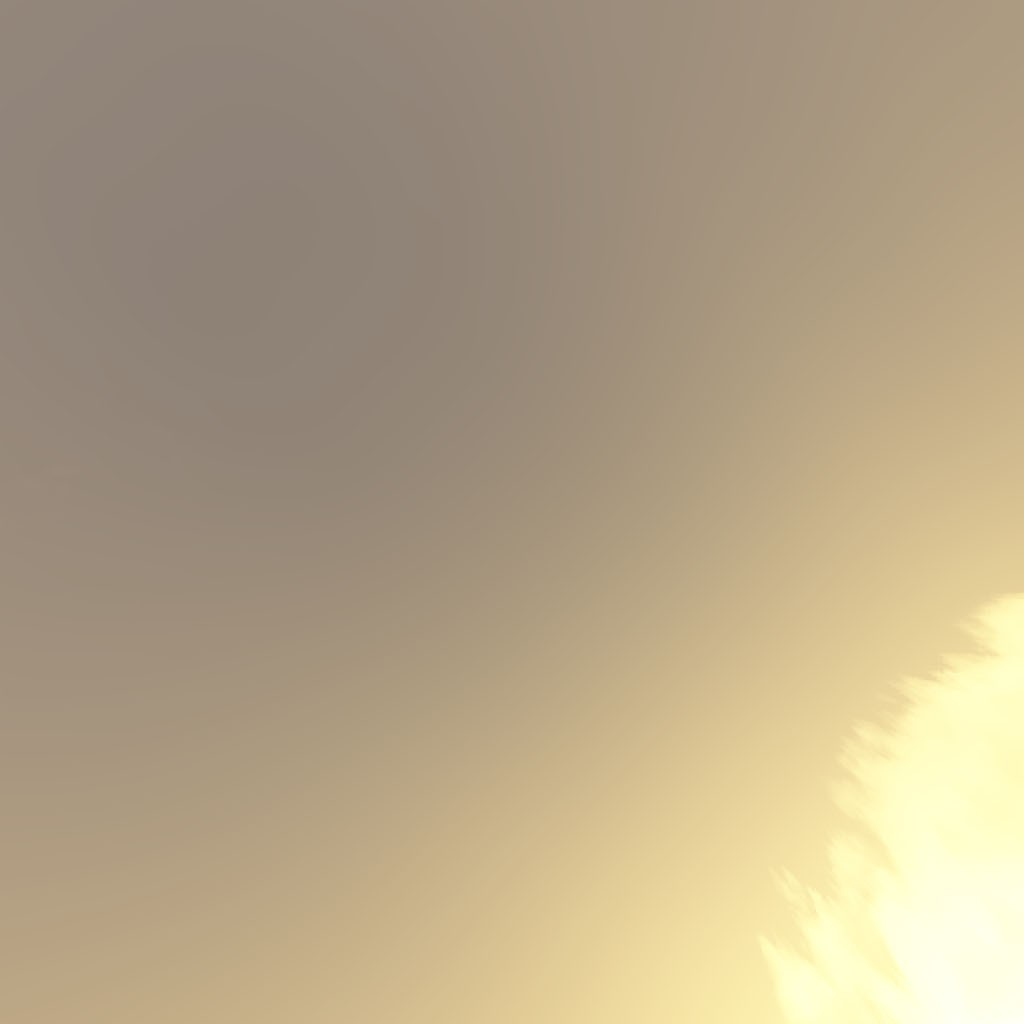
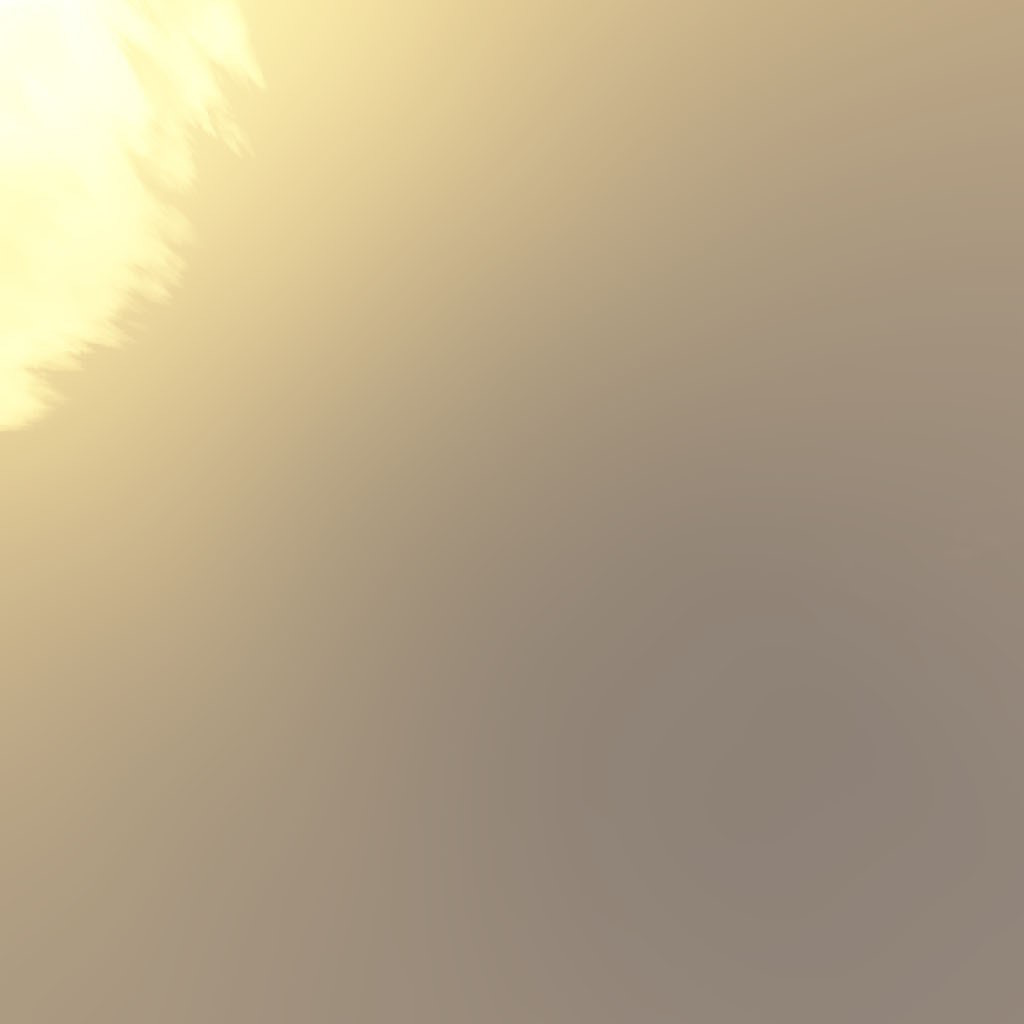
update water test

diff --git a/NSF_TEETH/waterTestApp/templates/waterTest.html b/NSF_TEETH/waterTestApp/templates/waterTest.html
@@ -12,8 +12,6 @@
     {% compress js %}
 		<script type="text/javascript" src="/static/js/three.min.71.js" charset="utf-8"></script>
 		<script type="text/javascript" src="/static/js/Detector.js" charset="utf-8"></script>
-		<script type="text/javascript" src="/static/js/stats.js" charset="utf-8"></script>
-		<script type="text/javascript" src="/static/js/THREEx.RenderStats.js" charset="utf-8"></script>
 		<script type="text/javascript" src="/static/js/dat.gui.min.js" charset="utf-8"></script>
 		<script type="text/javascript" src="/static/js/OrbitAndPanControls.js" charset="utf-8"></script>
     <script type="text/javascript" src="/static/js/jquery-1.8.3.min.js" charset="utf-8"></script>
@@ -44,7 +42,7 @@
 			uniform float damping, strength, radius;
 			
 			varying vec2 vUv;
-			const float v = 3.14159;
+			const float pi = 3.14159;
 
 			void main() 
 			{
@@ -54,9 +52,8 @@
 				// Draw ripples with mouse
 				if(mouseActive >= 1) 
 				{
-					 //float m = max(0.0, 1.0 - length(vec2(mousePoint.x, mousePoint.y) - vUv) / radius);
           float m = max(0.0, 1.0 - length(vec2(mousePoint.x, mousePoint.y) - vUv) / radius);
-					m = 0.5 -cos(m * v) * 0.5;
+					m = 0.5 -cos(m * pi) * 0.5;
 					info.r -= m * strength;
 				}
 
@@ -216,7 +213,7 @@
 			//------------------------------------------
 			// Globals
 			//------------------------------------------
-			var stats, renderStats, cameraRTT, cameraControls, sceneRTT, scene, renderer;
+			var cameraRTT, cameraControls, sceneRTT, scene, renderer;
 			var rtTexture, rtTexture2, normalMap;
 			var simRes = 256;
 			var rtUniforms, mainUniforms, normalUniforms;
@@ -280,75 +277,6 @@
 			start();
 			update();
 
-      //startTest();
-      //updateTest();
-      //renderTest();
-
-      function startTest(){
-        
-        //scene
-        scene = new THREE.Scene();
-        scene = new THREE.Scene();
-        
-        
-        // RENDERER
-        var canvasWidth = window.innerWidth;
-        var canvasHeight = window.innerHeight;
-        if (Detector.webgl)
-            renderer = new THREE.WebGLRenderer( {antialias:true, alpha:true} );
-        // else{
-        //     Detector.addGetWebGLMessage();
-        //     renderer = new THREE.CanvasRenderer();
-        // }
-        renderer.setSize(canvasWidth, canvasHeight);
-        renderer.setClearColor(0x808080);
-        renderer.autoClear = false;
-        // renderer.setClearColor(0x000000, 1.0);
-        // renderer.gammaInput = true;
-        // renderer.gammaOutput = true;
-        document.body.appendChild( renderer.domElement );
-
-
-
-        // CAMERA
-        var canvasRatio = canvasWidth / canvasHeight;
-        //var viewAngle = 30.0;
-        var viewAngle = 55.0;
-        var near = 0.1;
-        //var far = 20000;
-        var far = 3000000;
-        defaultCamPos = new THREE.Vector3(0.0, 0.0, 0.0)
-        var camera = new THREE.PerspectiveCamera(viewAngle, canvasRatio, near, far);
-        //camera.position.set(defaultCamPos.x, defaultCamPos.y, defaultCamPos.z);
-        //camera.position.set(1000, 500, -1500);
-        camera.position.set(-600, 100, 300);
-        camera.lookAt(new THREE.Vector3(0, 0, 0));
-        //scene.add(camera);
-    
-        // CONTROLS
-        cameraControls = new THREE.OrbitAndPanControls(camera, renderer.domElement);
-        //cameraControls.target.set(0, 0, 0);
-        loadSky();
-
-
-      }
-
-      function updateTest(){
-        
-        requestAnimationFrame( updateTest );
-        renderTest();
-
-      }
-
-      function renderTest(){
-       
-        renderer.clear();
-        
-        // Final render pass
-        renderer.render( scene, cameraControls.object );
-      
-    }
-
 			//------------------------------------------
 			// Initialization
 			//------------------------------------------
@@ -381,8 +309,9 @@
 
 				// add a basic directional light
         // LIGHTS
+        var lightRadius = 850.0
 				light = new THREE.DirectionalLight(0xffff55, 1);
-				light.position.set(-600, 300, 600);
+				light.position.set(850 * Math.sin(Math.PI/4.0), 250, 850 * Math.cos(Math.PI/4.0));
 				light.target.position.set(0, 0, 0);
 				light.castShadow = true;
 				//light.shadowCameraVisible = true;
@@ -400,20 +329,6 @@
 				// Setup mouse event handlers
 				setupControls();				
 
-				// Setup FPS counter
-				stats = new Stats();
-				stats.domElement.style.position = 'absolute';
-				stats.domElement.style.bottom = '0px';
-				stats.domElement.style.left = '0px';
-				document.body.appendChild( stats.domElement );
-				
-				// Setup rendering performance counter
-				rendererStats = new THREEx.RendererStats();
-				rendererStats.domElement.style.position	= 'absolute';
-				rendererStats.domElement.style.bottom = '50px';
-				rendererStats.domElement.style.left	= '0px';
-				document.body.appendChild( rendererStats.domElement );
-
 				// controls
 				//cameraControls = new THREE.OrbitControls( camera );
 			}
@@ -428,16 +343,16 @@
 					damping: 0.99,
 					strength: 0.075,
 					radius: 0.025,
-					scale: 10.0,
+					scale: 3.0,
 					alpha: 0.9,
 					ambient: "#111111",
 					diffuse: "#ffffff",
 					specular: "#ffffff",
 					shininess: 50,
 					height: 0.05,
-					lightPosX: 300.0,
-					lightPosY: 400.0,
-					lightPosZ: 600.0,
+					lightPosX: Math.sin(Math.PI/4)*850,
+					lightPosY: 250.0,
+					lightPosZ: Math.cos(Math.PI/4)*850,
 					animateLight: false,
 					reset: function() {
 						rtUniforms.damping.value = this.damping;
@@ -457,7 +372,12 @@
 						mainUniforms.diffuse.value = new THREE.Color(this.diffuse);
 						mainUniforms.specular.value = new THREE.Color(this.specular);
 						normalUniforms.height.value = this.height;
+            clock.stop();
+            clock.startTime = 0;
+            clock.oldTime = 0;
+            clock.elapsedTime = 0;
 						guiNeedsUpdate = true;
+            
 					}
 				};
 				
@@ -477,7 +397,12 @@
 				lightFolder.add(mainUniforms.lightPos.value, "x").name("X");
 				lightFolder.add(mainUniforms.lightPos.value, "y").name("Y");
 				lightFolder.add(mainUniforms.lightPos.value, "z").name("Z");
-				lightFolder.add(guiParams, "animateLight").name("Animate Light").onChange(function(newValue) { animateLight = newValue; guiNeedsUpdate = true; });
+				lightFolder.add(guiParams, "animateLight").name("Animate Light").onChange(function(newValue) { animateLight = newValue; 
+          if(newValue)
+            clock.start();
+          else
+            clock.stop();
+          guiNeedsUpdate = true; });
 				lightFolder.open();
 				
 				waterColorFolder = gui.addFolder("Water Colors");
@@ -585,7 +510,8 @@
         var canvasRatio = window.innerWidth / window.innerHeight;
         var far = 3000000;
         var camera = new THREE.PerspectiveCamera(viewAngle, canvasRatio, near, far);
-        camera.position.set(-600, 100, 300);
+        var rotateRadius = 300.0;
+        camera.position.set(rotateRadius*Math.cos(Math.PI/4.0), 55, -rotateRadius*Math.sin(Math.PI/4.0));
         camera.lookAt(new THREE.Vector3(0, 0, 0));
     
         // CONTROLS
@@ -593,79 +519,17 @@
         
         
 				
-				var waterGeo = new THREE.PlaneBufferGeometry( 512, 512, simRes-1, simRes-1 );				
+				var waterGeo = new THREE.PlaneBufferGeometry( 2048, 2048, simRes-1, simRes-1 );				
 				water = new THREE.Mesh( waterGeo , waterMat );
         water.name = "water";
 				water.rotation.x = THREE.Math.degToRad(-90);
+        water.rotation.z = THREE.Math.degToRad(-90);
 				scene.add( water );
 				
-				// lower 'floor' plane
-				var floorTexture = THREE.ImageUtils.loadTexture( '/static/img/checkerboard.jpg' );
-				floorTexture.wrapS = floorTexture.wrapT = THREE.RepeatWrapping; 
-				floorTexture.repeat.set( 5, 5 );
-				var floorPlaneGeo = new THREE.PlaneBufferGeometry( 512, 512, 1, 1 );
-				var floorPlane = new THREE.Mesh( floorPlaneGeo, new THREE.MeshLambertMaterial({color:0xffffff, map: floorTexture}) );
-        floorPlane.name = "floorPlane";
-				floorPlane.position.set(0, -50, 0);
-				floorPlane.rotation.x = THREE.Math.degToRad(-90);
-				scene.add( floorPlane );
-				
-				// debug the render texture by applying it to a basic plane in the upper-left
-				// area of the scene
-				var rtDbgGeo = new THREE.PlaneBufferGeometry( 150, 150, 1, 1 );
-				var rtDbgMat = new THREE.MeshBasicMaterial({ color: 0xffffff, map: normalMap });
-				var rtDbg = new THREE.Mesh( rtDbgGeo, rtDbgMat );
-        rtDbg.name = "rtDbg";
-				rtDbg.position.set(-300, 200, 0);
-				scene.add( rtDbg );
-				
-				// Lens flare
-				// var textureFlare0 = THREE.ImageUtils.loadTexture( "/static/img/lensflare0.png" );
-				// var textureFlare2 = THREE.ImageUtils.loadTexture( "/static/img/lensflare2.png" );
-				// var textureFlare3 = THREE.ImageUtils.loadTexture( "/static/img/lensflare3.png" );
-				// var flareColor = new THREE.Color( 0xffffff );
-				// lensFlare = new THREE.LensFlare( textureFlare0, 700, 0.0, THREE.AdditiveBlending, flareColor );
-				// lensFlare.add( textureFlare2, 512, 0.0, THREE.AdditiveBlending );
-				// lensFlare.add( textureFlare2, 512, 0.0, THREE.AdditiveBlending );
-				// lensFlare.add( textureFlare2, 512, 0.0, THREE.AdditiveBlending );
-				// lensFlare.add( textureFlare3, 60, 0.6, THREE.AdditiveBlending );
-				// lensFlare.add( textureFlare3, 70, 0.7, THREE.AdditiveBlending );
-				// lensFlare.add( textureFlare3, 120, 0.9, THREE.AdditiveBlending );
-				// lensFlare.add( textureFlare3, 70, 1.0, THREE.AdditiveBlending );
-				// lensFlare.customUpdateCallback = lensFlareUpdateCallback;
-				// lensFlare.position = light.position;
-				//scene.add( lensFlare );
-				
-				// sphere to test that lighting is working
-				var sp = new THREE.SphereGeometry( 50, 30, 15 );
-				var spm = new THREE.Mesh( sp, new THREE.MeshLambertMaterial({color:0xff0000}) );
-				spm.position.set(300, 200, 0);
-				scene.add( spm );	
+
 			}
 			
-			
-			//------------------------------------------
-			// Update the lens flare
-			//------------------------------------------
-			function lensFlareUpdateCallback( object ) {
-				var f, fl = object.lensFlares.length;
-				var flare;
-				var vecX = -object.positionScreen.x * 2;
-				var vecY = -object.positionScreen.y * 2;
-
-				for( f = 0; f < fl; f++ ) 
-				{
-					flare = object.lensFlares[ f ];
-
-					flare.x = object.positionScreen.x + vecX * flare.distance;
-					flare.y = object.positionScreen.y + vecY * flare.distance;
-
-					flare.rotation = 0;
-				}
-
-				object.lensFlares[ 2 ].y += 0.025;
-				object.lensFlares[ 3 ].rotation = object.positionScreen.x * 0.5 + THREE.Math.degToRad( 45 );
-			}
+		
 
 
 			//------------------------------------------
@@ -749,12 +613,6 @@
                 return false;
               }
           });
-
-          
-          
-     //      console.log(rtUniforms.mousePoint.value);
-					// if (1 > Math.abs(rtUniforms.mousePoint.value.x) && 1 > Math.abs(rtUniforms.mousePoint.value.y))
-					     
 				};
 			}
 
@@ -762,12 +620,6 @@
         var canvasWidth = window.innerWidth;
         var canvasHeight = window.innerHeight;
         var camera = cameraControls.object;
-        //var mouseVector = new THREE.Vector3(2*((x - leftOffset)/canvasWidth)-1,
-        //                  1-2*((y -topOffset)/canvasHeight),
-        //                  0.5);
-        //var projector = new THREE.Projector();
-        //projector.unprojectVector(mouseVector,camera);
-        //var raycaster = new THREE.Raycaster(camera.position,mouseVector.sub(camera.position).normalize());
         var mouseVector = new THREE.Vector2( -1 + 2*(x / canvasWidth),
                                              1  - 2*(y / canvasHeight));
         var raycaster = new THREE.Raycaster();
@@ -783,8 +635,10 @@
 
 				if (animateLight)
 				{
-					light.position.x = Math.sin(clock.getElapsedTime()) * 400.0;
-					light.position.z = Math.cos(clock.getElapsedTime()) * 400.0;
+          console.log(clock.getElapsedTime());
+          //clock.start();
+					light.position.x = Math.sin(clock.getElapsedTime() + Math.PI/4) * 850.0;
+					light.position.z = Math.cos(clock.getElapsedTime() + Math.PI/4) * 850.0;
 					guiNeedsUpdate = true;
 				}
 
@@ -810,14 +664,8 @@
 					}
 					guiNeedsUpdate = false;
 				}
-				
-				//lensFlare.position = light.position;
-				
 				render();
-								
-				stats.update();
         cameraControls.update();
-				rendererStats.update(renderer);
 			}
 
 			
